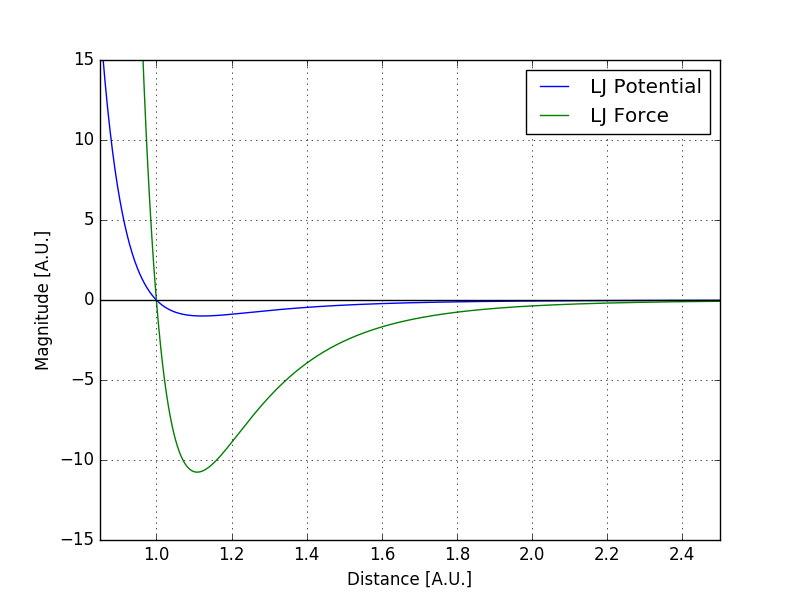
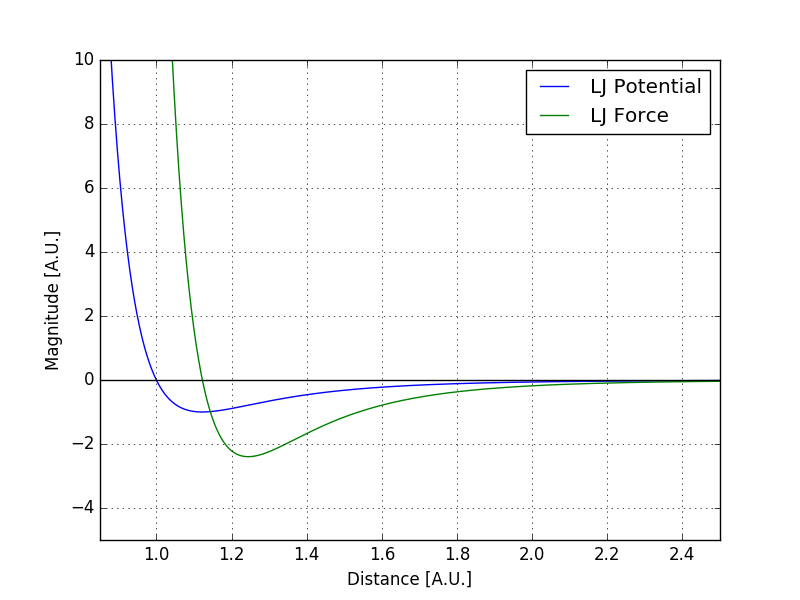
Finished up to lj fluid section

diff --git a/sim2/latex/sim2.tex b/sim2/latex/sim2.tex
@@ -31,6 +31,14 @@ exponent-product=\cdot }
 \usepackage{pgfplots}
 \usepackage{tikz}
 
+
+% Custom colors
+\definecolor{deepblue}{rgb}{0,0,0.5}
+\definecolor{deepred}{rgb}{0.6,0,0}
+\definecolor{deepgreen}{rgb}{0,0.5,0}
+\DeclareFixedFont{\ttb}{T1}{txtt}{bx}{n}{12} % for bold
+\DeclareFixedFont{\ttm}{T1}{txtt}{m}{n}{12}  % for normal
+
 % tikz
 \usetikzlibrary{arrows}
 
@@ -112,8 +120,8 @@ exponent-product=\cdot }
 \newcommand{\lref}[1]{$[#1]$}							% Quellen: \newcommand{\lit}{1} => \lref{\lit}
 
 % listing commandos
-\newcommand{\listfile}[5]{
-\lstinputlisting[linerange={#2-#3}, firstnumber=#2, caption={#4} \hfill script:  \lstinline@#1@, label=#5]{#1}}
+\newcommand{\listfile}[6]{
+\lstinputlisting[linerange={#3-#4}, firstnumber=#3, caption={#5} \hfill script:  \lstinline@#2@, label=#6]{#1}}
 % arguments:
 % {filename}{firstline}{lastline}{title}{label}
 % Imports code from a file 
@@ -150,7 +158,7 @@ exponent-product=\cdot }
 \pagestyle{scrheadings}
 \clearscrheadfoot
 \chead{Simulation Methods in Physics I}
-\ihead{Worksheet 1}
+\ihead{Worksheet 2}
 \ohead{\today}
 \ofoot{\pagemark}
 \ifoot{Michael Marquardt}
@@ -167,13 +175,13 @@ exponent-product=\cdot }
 Simulation Methods in Physics I
 \end{large} \\ \ \\
 \begin{Large}
-Worksheet 1: Integrators
+Worksheet 2: Statistical Mechanics and Molecular Dynamics
 \end{Large}}   \\ \ \\
 \ \\ \ \\
 
 \begin{tabular}{lll}
 Students: &Michael Marquardt &Cameron Stewart\\ 
-matriculation numbers: &3122118 &-------\\
+matriculation numbers: &3122118 &3216338\\
 \end{tabular}
 
 
@@ -427,9 +435,86 @@ C_V
 	\label{cv3}
 \end{align}
 
-\subsection{Lennard-Jones Potential}
+\section{Molecular Dynamics: Lennard-Jones Fluid}
+In this worksheet we will simulate a simple Lennard-Jones fluid using Molecular Dynamics.  We begin by implementing the Lennard-Jones (LJ) potential and force in python and simulate a few particles as "billards." We will move on to simulating a LJ fluid using periodic boundary conditions and random initial velcities. We then compare the run times for this system using implementations using python, C, and cython. Finally, we include cell lists and Verlet lists in order to further improve our efficiency.
+\subsection{Lennard Jones Potential}
+The LJ potential is originally a model used to represent a system of noble gas particles and consists of a hard core repulsion as well as a longer ranged attractive potential due to the dipole-dipole interaction. At longer ranges the potential is nearly zero. It is given by
+\begin{equation}
+V_\mathrm{LJ}(r) = 4\epsilon\left(\left(\frac{\sigma}{r}\right)^{12} - \left(\frac{\sigma}{r}\right)^6\right).
+\end{equation}
+\subsection{Reduced Units}
+We may define a set of dimensionless reduced units because the LJ potential is of the general form
+\begin{equation}\label{genpot}
+U(r) = \epsilon \phi(\sigma/r)
+\end{equation}
+where $\sigma$ and $\epsilon$ are constants and $\phi$ is smooth and differentiable. We use
+\begin{equation}
+x^* = x/\sigma,\quad V^* = V/\sigma^3, \quad T^* = k_\mathrm{B} T/\epsilon,\quad p^* = p\sigma^3/\epsilon.
+\end{equation}
+The law of corresponding states claims that any system interacting with an potential such as \ref{genpot} is described by the same equation of state. We may therefore simulate at $/epsilon = /sigma = 1.0$ without any loss of generality.
 
-%TODO do the programming parts
+With the help of numpy, we implement the LJ potential in the following way:
+\listfile{../src/ljlib.py}{/src/ljlib.py}{10}{13}{LJ Potential}{ljpotential}
+The force due to this potential is simply given by the negative gradient and is implemented as:
+\listfile{../src/ljlib.py}{/src/ljlib.py}{15}{19}{LJ Force}{ljforce}
+The output of these functions for values from 0.85 to 2.5 can be seen in Fig. \ref{fig:lj}.
+\begin{figure}[h]
+\includegraphics[width=0.7\linewidth]{../fig/ljplot.png}
+  \centering
+  \caption{Output of the compute\_lj\_potential and compute\_lj\_force functions.}
+\label{fig:lj}
+\end{figure}
+\subsection{Lennard-Jones Billards}
+We would now like to use this potential to run an MD simulation.We use the velocity verlet integrator to run the MD. Our first simulation will place 5 particles by hand and integrate until $t = 20.0$ with a timestep of $dt = 0.01$. We begin with a supplied template and simply import the library created in the previous task.  
+\listfile{../src/ljbillards.py}{/src/ljbillards.py}{1}{3}{Import ljlib.py}{imports}
+We can use VMD in order to visualize the simulation once we've run the program. A still shot from our simulation can be seen in Fig. \ref{fig:vmd}.
+\begin{figure}[h]
+\includegraphics[width=0.7\linewidth]{../fig/vmdscene.png}
+  \centering
+  \caption{A snapshot of the LJ billards simulation}
+\label{fig:vmd}
+\end{figure}
+In the original simulation, the first (not zeroth) particle did not collide with the fourth. We moved the fifth particle slightly south in order to correct this and the trajectory can be seen in Fig. \ref{fig:bplot}. Another feature of this trajectory is that the second and third particles do not behave like billard balls at all. This is due to the attractive part of the LJ potential.
+\begin{figure}[h]
+\includegraphics[width=0.7\linewidth]{../fig/billardplt.png}
+  \centering
+  \caption{Billard trajectory with modified initial conditions}
+\label{fig:bplot}
+\end{figure}
+\subsection{Periodic Boundary Conditions}
+Because computers have limited resources and computing power, we can never simulate a full system. Rather we simulate a much smaller system. Unfortunately, if we had only a few particles in a boundless space, they would escape to infinity and no longer interact. We can't simply add walls because we must then account for surface effects. We can solve this problem by using periodic boundary conditions (PBC).  Images of our central box essentially extend infinitely in every direction. We now have an infinite volume $V$ and particle number $N$ but we may prescribe a density $\rho = N/V$.
+\subsubsection{Long and Short Range Interactions}
+One problem with an infinite number of particles is that long range interactions become hard to model since we must compute an infinite number of interactions. Fortunately, LJ is essentially short ranged and we can define a cutoff distance as follows.
+
+\begin{equation*}
+V^`_\mathrm{LJ}(r)=\begin{cases}
+V_\mathrm{LJ}(r) - V_\mathrm{LJ}(r_\mathrm{cutoff}), & r \leq r_\mathrm{cutoff}\\
+0, & \text{else}
+\end{cases}
+\end{equation*}
+We implent this for both the LJ potential and force as
+ \listfile{../src/ljlib.py}{/src/ljlib.py}{21}{35}{LJ Cutoff}{cuttoff}
+We use a value of $2.5$ for $r_\mathrm{cutoff}$.
+\subsubsection{Minimum Image Convention}
+If we use a cutoff range that is less than the length of our box $L$ then we only have to compute the interaction between the closest image of the particles. All other images will be too far to interact. Knowing this, we can implement pbc by simply calculating the minimum image distance and using that distance to calculate the forces. Our particles will then freely propogate outof the box while still experiencing the correct force. When looking at the trajectory in VMD or in python we can then simpy wrap the particle locations back to the first box to see the true trajectories. The following code block shows how the minimum image is calculated:
+ \listfile{../src/ljbillards1.py}{/src/ljbillards1.py}{54}{57}{Minimum Image}{image}
+ The compute\_forces function was modified as well.
+  \listfile{../src/ljbillards1.py}{/src/ljbillards1.py}{5}{19}{PBC Forces}{pbcforces}
+We tested the pbc by setting up two particles with the following initial conditions:
+ \listfile{../src/ljbillards1.py}{/src/ljbillards1.py}{67}{75}{Initial Conditions}{init}
+The trajectory can be seen in Fig. \ref{fig:pbc}. 
+\begin{figure}[h]
+\includegraphics[width=0.7\linewidth]{../fig/pbcplot.png}
+  \centering
+  \caption{Billard trajectory with modified initial conditions}
+\label{fig:pbc}
+\end{figure}
+\subsection{Lennard-Jones Fluid}
+test
+
+
+
+
 
 
 \end{document}

diff --git a/sim2/src/ljbillards.py b/sim2/src/ljbillards.py
@@ -62,7 +62,7 @@ x[:,0] = [0.0, 0.0, 0.0]
 x[:,1] = [5.0, 0.3, 0.0]
 x[:,2] = [8.0, 1.8, 0.0]
 x[:,3] = [11.0, 0.0, -1.0]
-x[:,4] = [12.0, 9.0, 0.0]
+x[:,4] = [12.0, 7.5, 0.0]
 
 # particle velocities
 v = zeros((3,5))
@@ -82,7 +82,7 @@ Es = []
 N = x.shape[1]
 
 # open the trajectory file
-vtffile = open('../dat/ljbillards.vtf', 'w')
+vtffile = open('../dat/ljbillards3.vtf', 'w')
 # write the structure of the system into the file: 
 # N particles ("atoms") with a radius of 0.5
 vtffile.write('atom 0:{} radius 0.5\n'.format(N-1))
@@ -111,11 +111,13 @@ for i in range(N):
     plot(traj[:,0,i], traj[:,1,i], label='{}'.format(i))
 axes().set_aspect('equal')
 legend()
+xlabel('x position')
+ylabel('y position')
 
 # plot the total energy
-figure()
-xlabel("Time step")
-ylabel("Total energy")
-plot(Es)
+#figure()
+#xlabel("Time step")
+#ylabel("Total energy")
+#plot(Es)
 
-show()
+savefig('../fig/billardplt.png')

diff --git a/sim2/src/ljplot.py b/sim2/src/ljplot.py
@@ -16,16 +16,16 @@ v = np.zeros((1000,1))
 f = np.zeros((1000,3))
 
 for i in range(1000):
-    v[i] = lj.compute_cutoff_potential(r[i])
-    f[i] = lj.compute_cutoff_force(r[i])
+    v[i] = lj.compute_lj_potential(r[i])
+    f[i] = lj.compute_lj_force(r[i])
     
 plt.plot(d,v, label="LJ Potential")
 plt.plot(d,f[:,0], label="LJ Force")
-plt.axis([0.85,2.5,-15,15])
+plt.axis([0.85,2.5,-5,10])
 plt.plot(d,np.zeros((1000,1)), 'k')
 plt.xlabel("Distance [A.U.]")
 plt.ylabel("Magnitude [A.U.]")
 plt.grid(True)
 plt.legend()
-#plt.savefig('../fig/ljplot.png')
-plt.show()
+plt.savefig('../fig/ljplot.png')
+#plt.show()

diff --git a/sim2/src/ljbillards1.py b/sim2/src/ljbillards1.py
@@ -69,7 +69,6 @@ x = zeros((3,2))
 x[:,0] = [3.9, 3, 4]
 x[:,1] = [6.1, 5, 6]
 
-
 # particle velocities
 v = zeros((3,2))
 v[:,0] = [-2.0, -2.0,-2.0]
@@ -116,11 +115,14 @@ for i in range(N):
     plot(traj[:,0,i], traj[:,1,i], 'o', label='{}'.format(i))
 axes().set_aspect('equal')
 legend()
+xlabel('x position')
+ylabel('y position')
 
 # plot the total energy
-figure()
-xlabel("Time step")
-ylabel("Total energy")
-plot(Es)
+#figure()
+#xlabel("Time step")
+#ylabel("Total energy")
+#plot(Es)
 
-show()
+savefig('../fig/pbcplot.png')
+#show()
